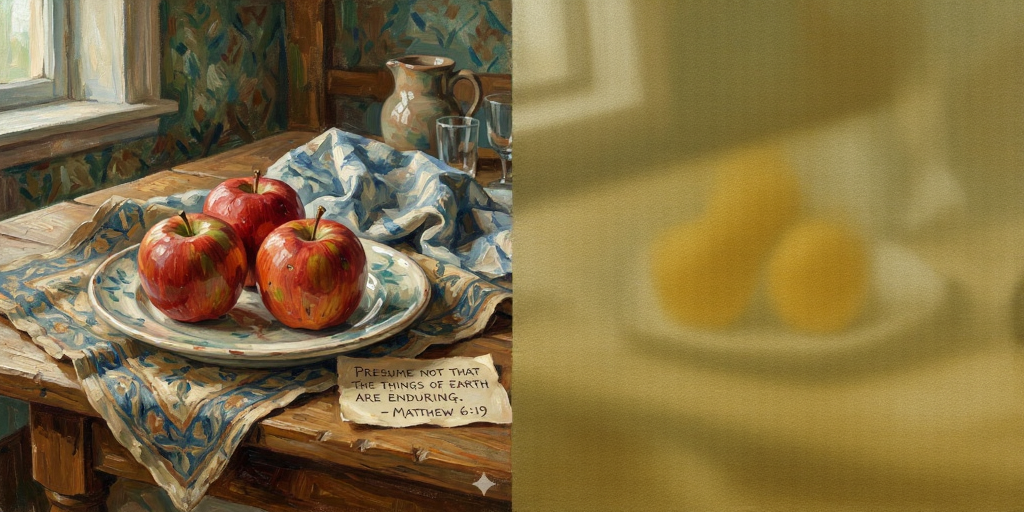
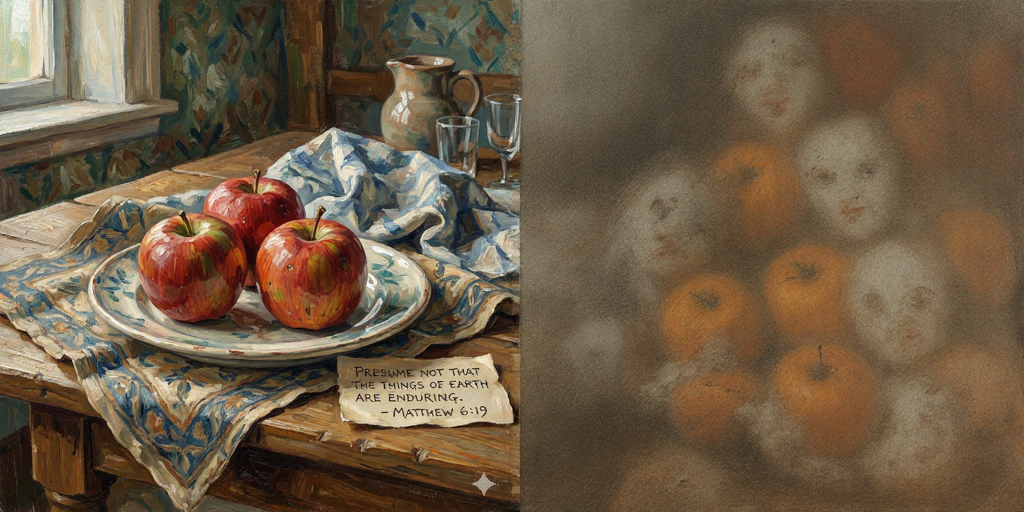
now we have uncanny slop machine lol

diff --git a/attn_proc/two_batch_feature_align.py b/attn_proc/two_batch_feature_align.py
@@ -116,7 +116,7 @@ class FeatureAlignFluxAttnProcessor:
         # 必须在 apply_rotary_emb 之前执行，利用纯语义特征进行空间对齐！
         # =====================================================================
         
-        start_inject = 0   # 前 5 步让初始噪声稳定
+        start_inject = 15   # 前 5 步让初始噪声稳定
         end_inject = 35    # 后 15 步交还给模型自己画油画质感
         
         if start_inject <= self.step_idx < end_inject:
@@ -157,7 +157,7 @@ class FeatureAlignFluxAttnProcessor:
             aligned_v_A = torch.bmm(attn_weights, v_A)            
             aligned_v_A_prime = torch.bmm(attn_weights, v_A_prime) 
 
-            lambda_shift = 5.1  
+            lambda_shift = 3.1  
             delta_v_aligned = aligned_v_A_prime - aligned_v_A
             
             # 完美贴合油画苹果骨架的油画橘子特征
